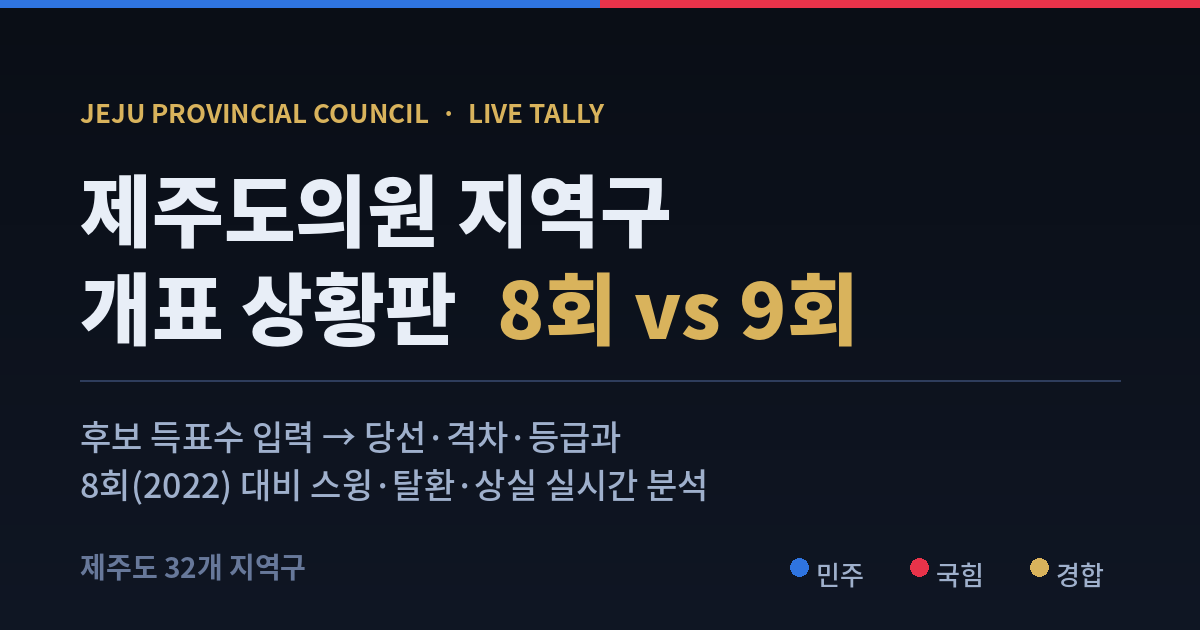
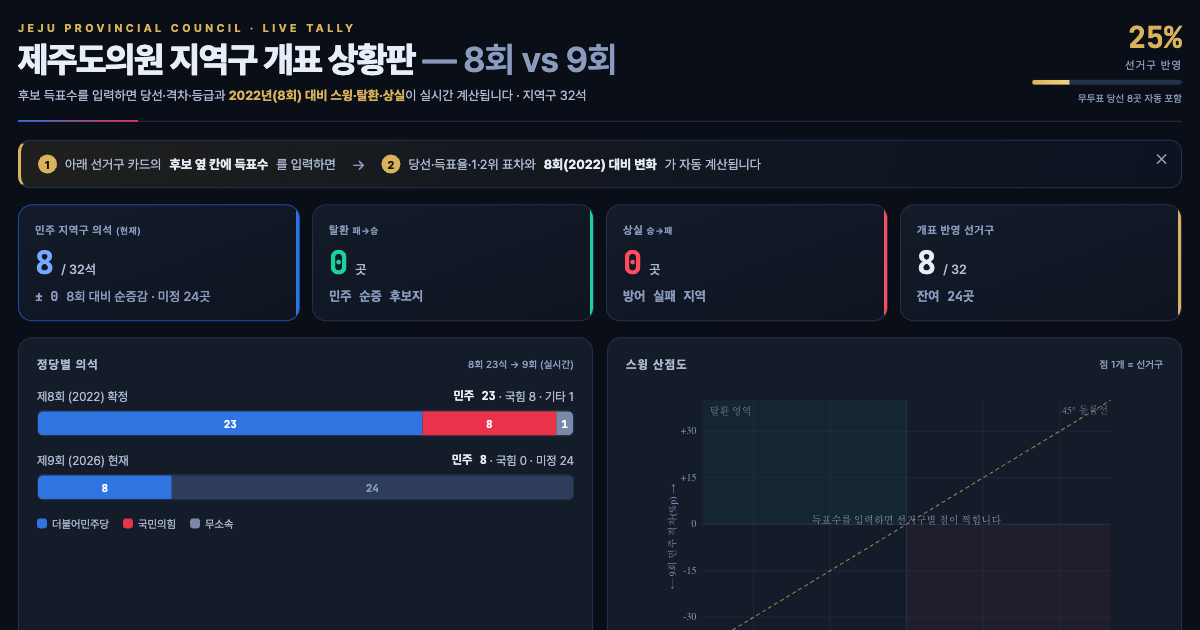
Use a real homepage capture as the OG thumbnail
Replace the designed og.png with an actual 1200x630 screenshot of the
homepage (title, KPIs, seat bars, scatter). Bump og:image/twitter:image
to ?v=2 so Telegram/CDN caches refetch the new image.

diff --git a/index.html b/index.html
@@ -10,7 +10,7 @@
 <meta property="og:site_name" content="제주도의원 개표 상황판">
 <meta property="og:title" content="제주도의원 지역구 개표 상황판 — 8회 vs 9회">
 <meta property="og:description" content="후보 득표수를 입력하면 당선·격차·등급과 8회(2022) 대비 스윙·탈환·상실이 실시간 계산됩니다. 제주도 32개 지역구.">
-<meta property="og:image" content="https://jeju-tally-board.vercel.app/og.png">
+<meta property="og:image" content="https://jeju-tally-board.vercel.app/og.png?v=2">
 <meta property="og:image:width" content="1200">
 <meta property="og:image:height" content="630">
 <meta property="og:image:alt" content="제주도의원 지역구 개표 상황판 — 8회 vs 9회">
@@ -18,7 +18,7 @@
 <meta name="twitter:card" content="summary_large_image">
 <meta name="twitter:title" content="제주도의원 지역구 개표 상황판 — 8회 vs 9회">
 <meta name="twitter:description" content="후보 득표수를 입력하면 당선·격차·등급과 8회(2022) 대비 스윙·탈환·상실이 실시간 계산됩니다. 제주도 32개 지역구.">
-<meta name="twitter:image" content="https://jeju-tally-board.vercel.app/og.png">
+<meta name="twitter:image" content="https://jeju-tally-board.vercel.app/og.png?v=2">
 <meta name="theme-color" content="#0a0e16" id="themeColor">
 <link rel="manifest" href="manifest.webmanifest">
 <link rel="icon" type="image/svg+xml" href="icon.svg">